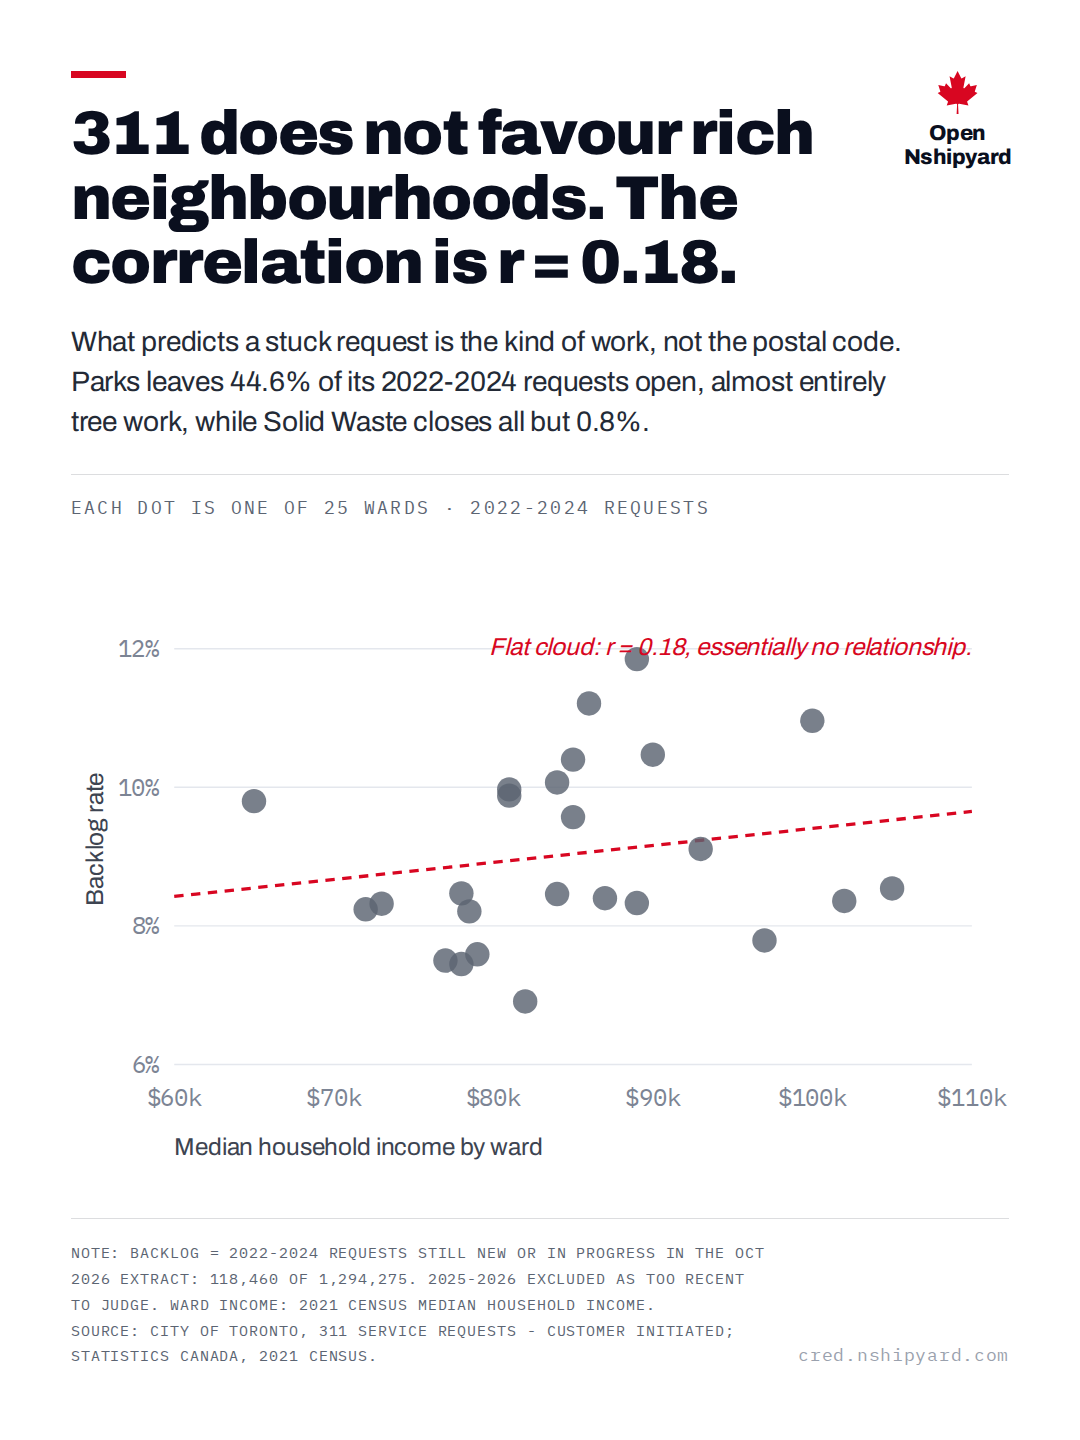
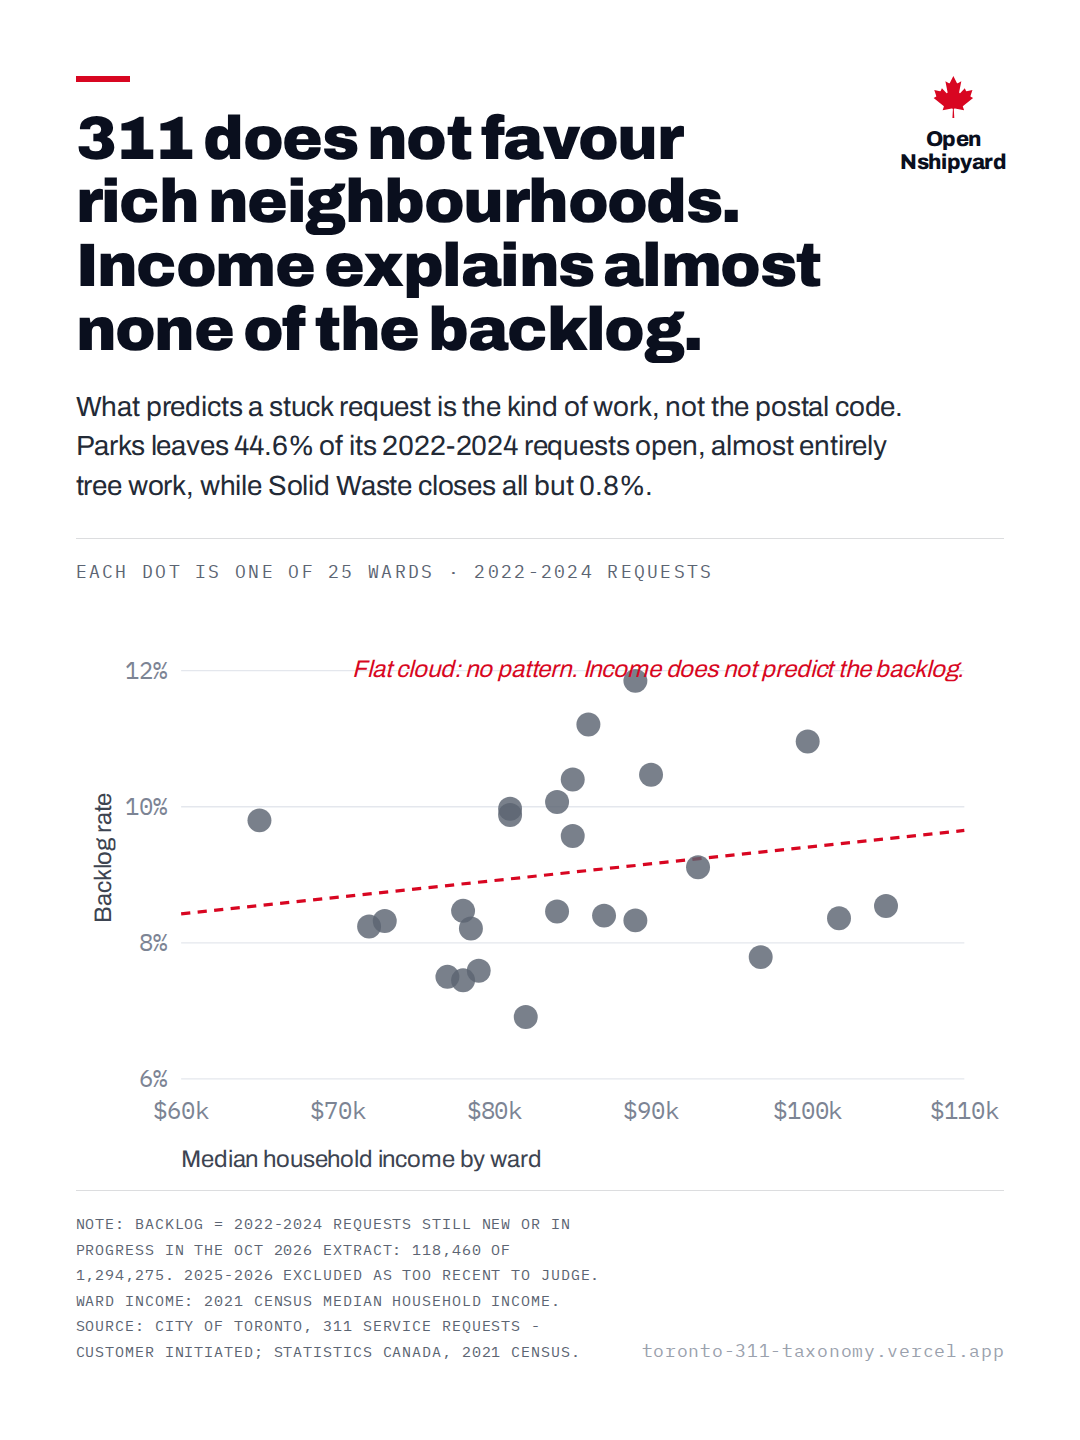
311-equity: plain-language headline, drop r = 0.18 jargon from headline, share text and chart annotation

diff --git a/src/charts/chart-data.ts b/src/charts/chart-data.ts
@@ -215,21 +215,21 @@ export const CHARTS: ChartDef[] = [
   {
     slug: "311-equity",
     kicker: "Each dot is one of 25 wards · 2022-2024 requests",
-    headline: "311 does not favour rich neighbourhoods. The correlation is r = 0.18.",
+    headline: "311 does not favour rich neighbourhoods. Income explains almost none of the backlog.",
     deck: "What predicts a stuck request is the kind of work, not the postal code. Parks leaves 44.6% of its 2022-2024 requests open, almost entirely tree work, while Solid Waste closes all but 0.8%.",
     note: "Backlog = 2022-2024 requests still New or In Progress in the Oct 2026 extract: 118,460 of 1,294,275. 2025-2026 excluded as too recent to judge. Ward income: 2021 Census median household income.",
     source: "City of Toronto, 311 Service Requests - Customer Initiated; Statistics Canada, 2021 Census.",
     shareText:
-      "Toronto's 311 does not favour rich neighbourhoods: ward income vs request backlog correlates at r = 0.18, essentially zero. What predicts delay is the kind of work.",
+      "Toronto's 311 does not favour rich neighbourhoods. Ward income explains almost none of the request backlog. What predicts delay is the kind of work.",
     projectName: "311 Taxonomy",
     projectUrl: "https://toronto-311-taxonomy.vercel.app",
     fr: {
-      headline: "Le 311 ne favorise pas les quartiers riches. La corrélation est de r = 0,18.",
+      headline: "Le 311 ne favorise pas les quartiers riches. Le revenu n'explique presque rien de l'arriéré.",
       deck: "Ce qui prédit une demande bloquée, c'est le type de travail, pas le code postal. Les Parcs laissent 44,6 % de leurs demandes 2022-2024 ouvertes, presque toutes des travaux d'arbres, tandis que la Gestion des déchets solides n'en laisse que 0,8 %.",
       kicker: "Chaque point est l'un des 25 quartiers · demandes 2022-2024",
       note: "Arriéré = demandes 2022-2024 encore nouvelles ou en cours dans l'extrait d'oct. 2026 : 118 460 sur 1 294 275. 2025-2026 exclues car trop récentes pour juger. Revenu par quartier : revenu médian des ménages du Recensement 2021.",
       source: "Ville de Toronto, Demandes de service 311 (initiées par les clients); Statistique Canada, Recensement 2021.",
-      shareText: "Le 311 de Toronto ne favorise pas les quartiers riches : le revenu du quartier contre l'arriéré des demandes corrèle à r = 0,18, essentiellement zéro. Ce qui prédit le retard, c'est le type de travail.",
+      shareText: "Le 311 de Toronto ne favorise pas les quartiers riches. Le revenu du quartier n'explique presque rien de l'arriéré des demandes. Ce qui prédit le retard, c'est le type de travail.",
     },
     chart: {
       kind: "scatter",
@@ -237,8 +237,8 @@ export const CHARTS: ChartDef[] = [
       xLabelFr: "Revenu médian des ménages par quartier",
       yLabel: "Backlog rate",
         yLabelFr: "Taux d'arriéré",
-      annotation: "Flat cloud: r = 0.18, essentially no relationship.",
-        annotationFr: "Nuage plat : r = 0,18, essentiellement aucune relation.",
+      annotation: "Flat cloud: no pattern. Income does not predict the backlog.",
+        annotationFr: "Nuage plat : aucun motif. Le revenu ne prédit pas l'arriéré.",
       trend: { a: 9.034, b: 0.00002452, x0: 84820 },
       points: [
         { x: 81000, y: 9.97, label: "1" },
